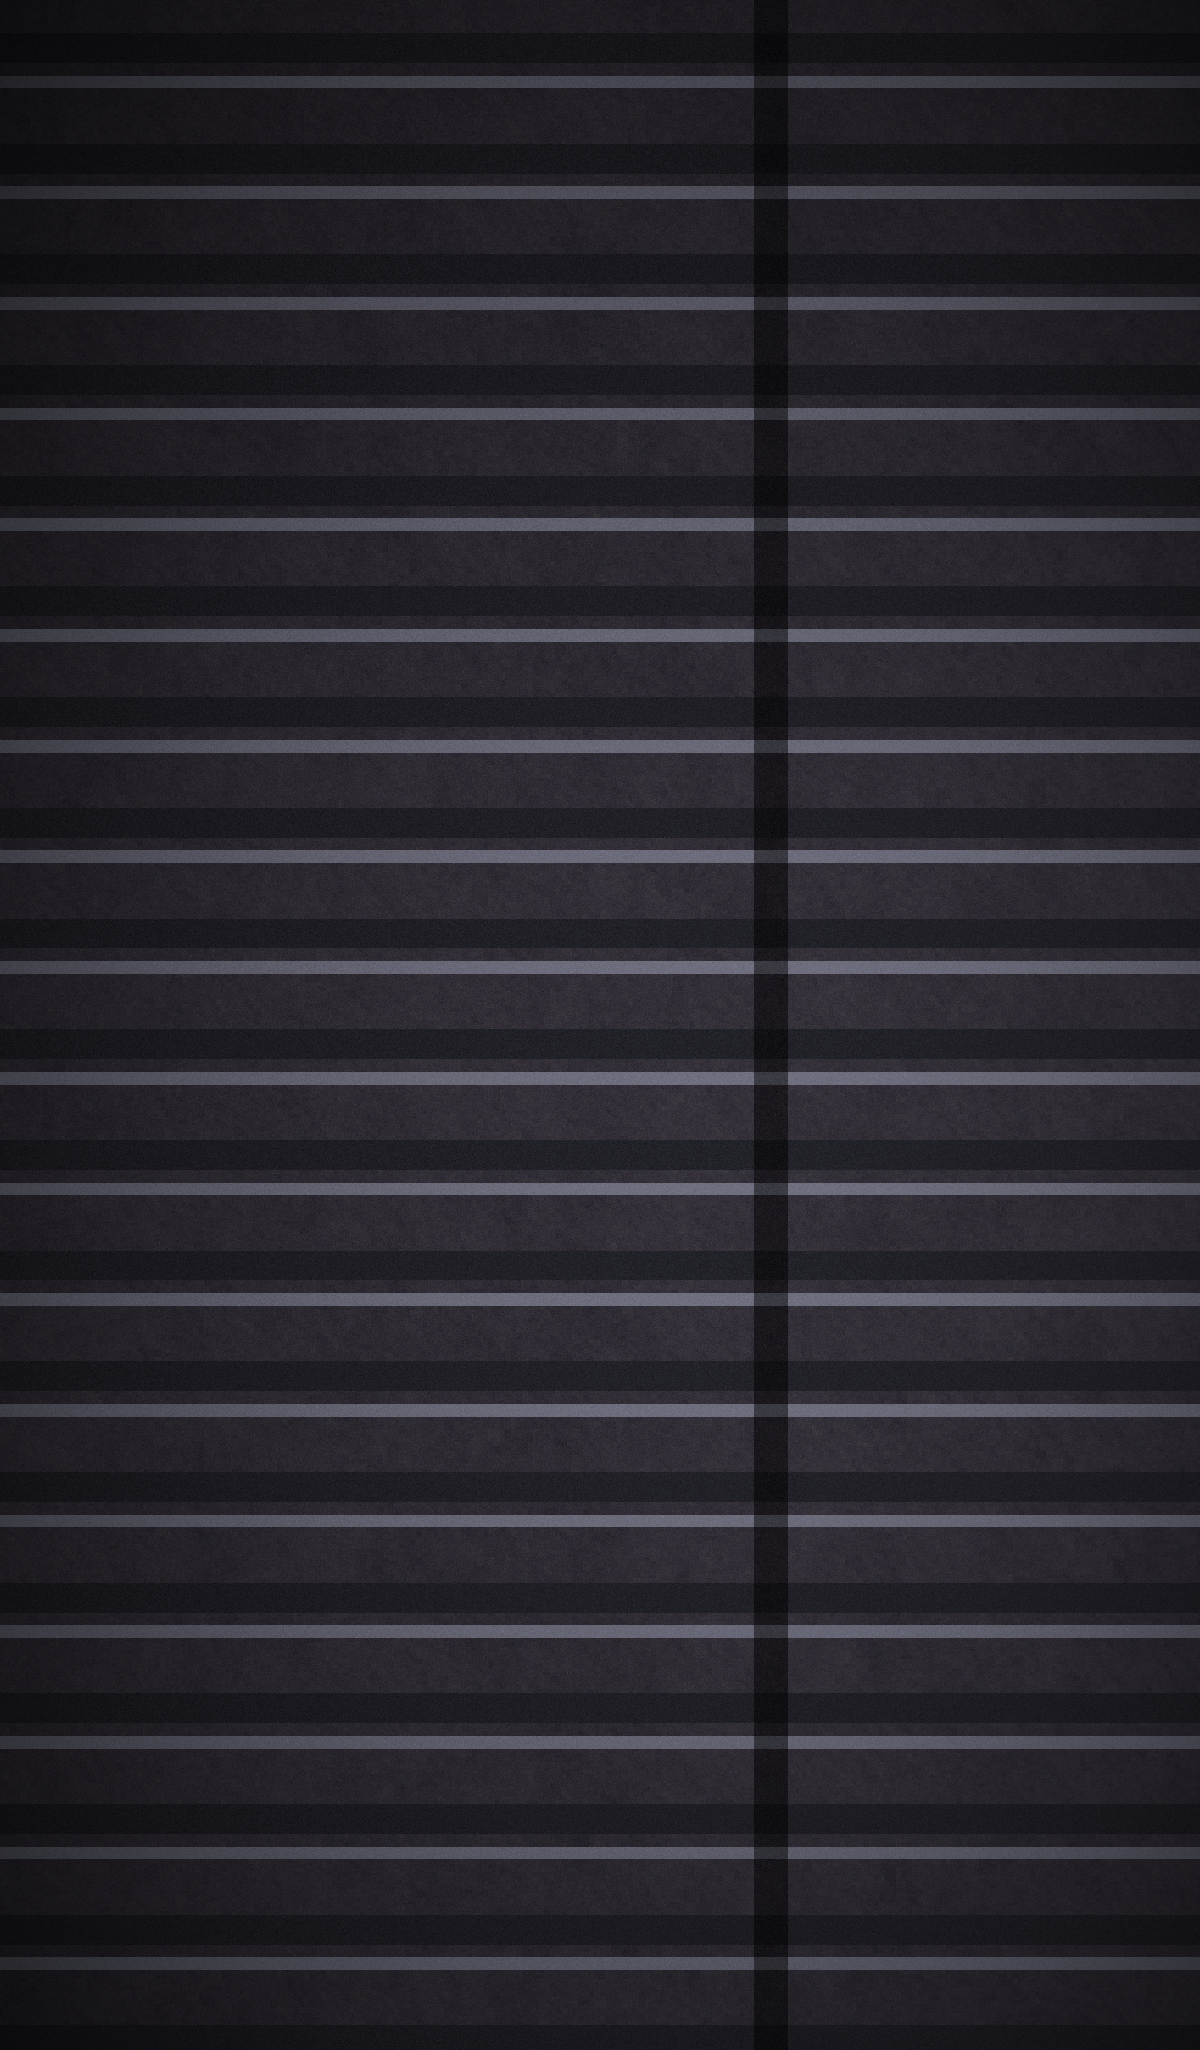
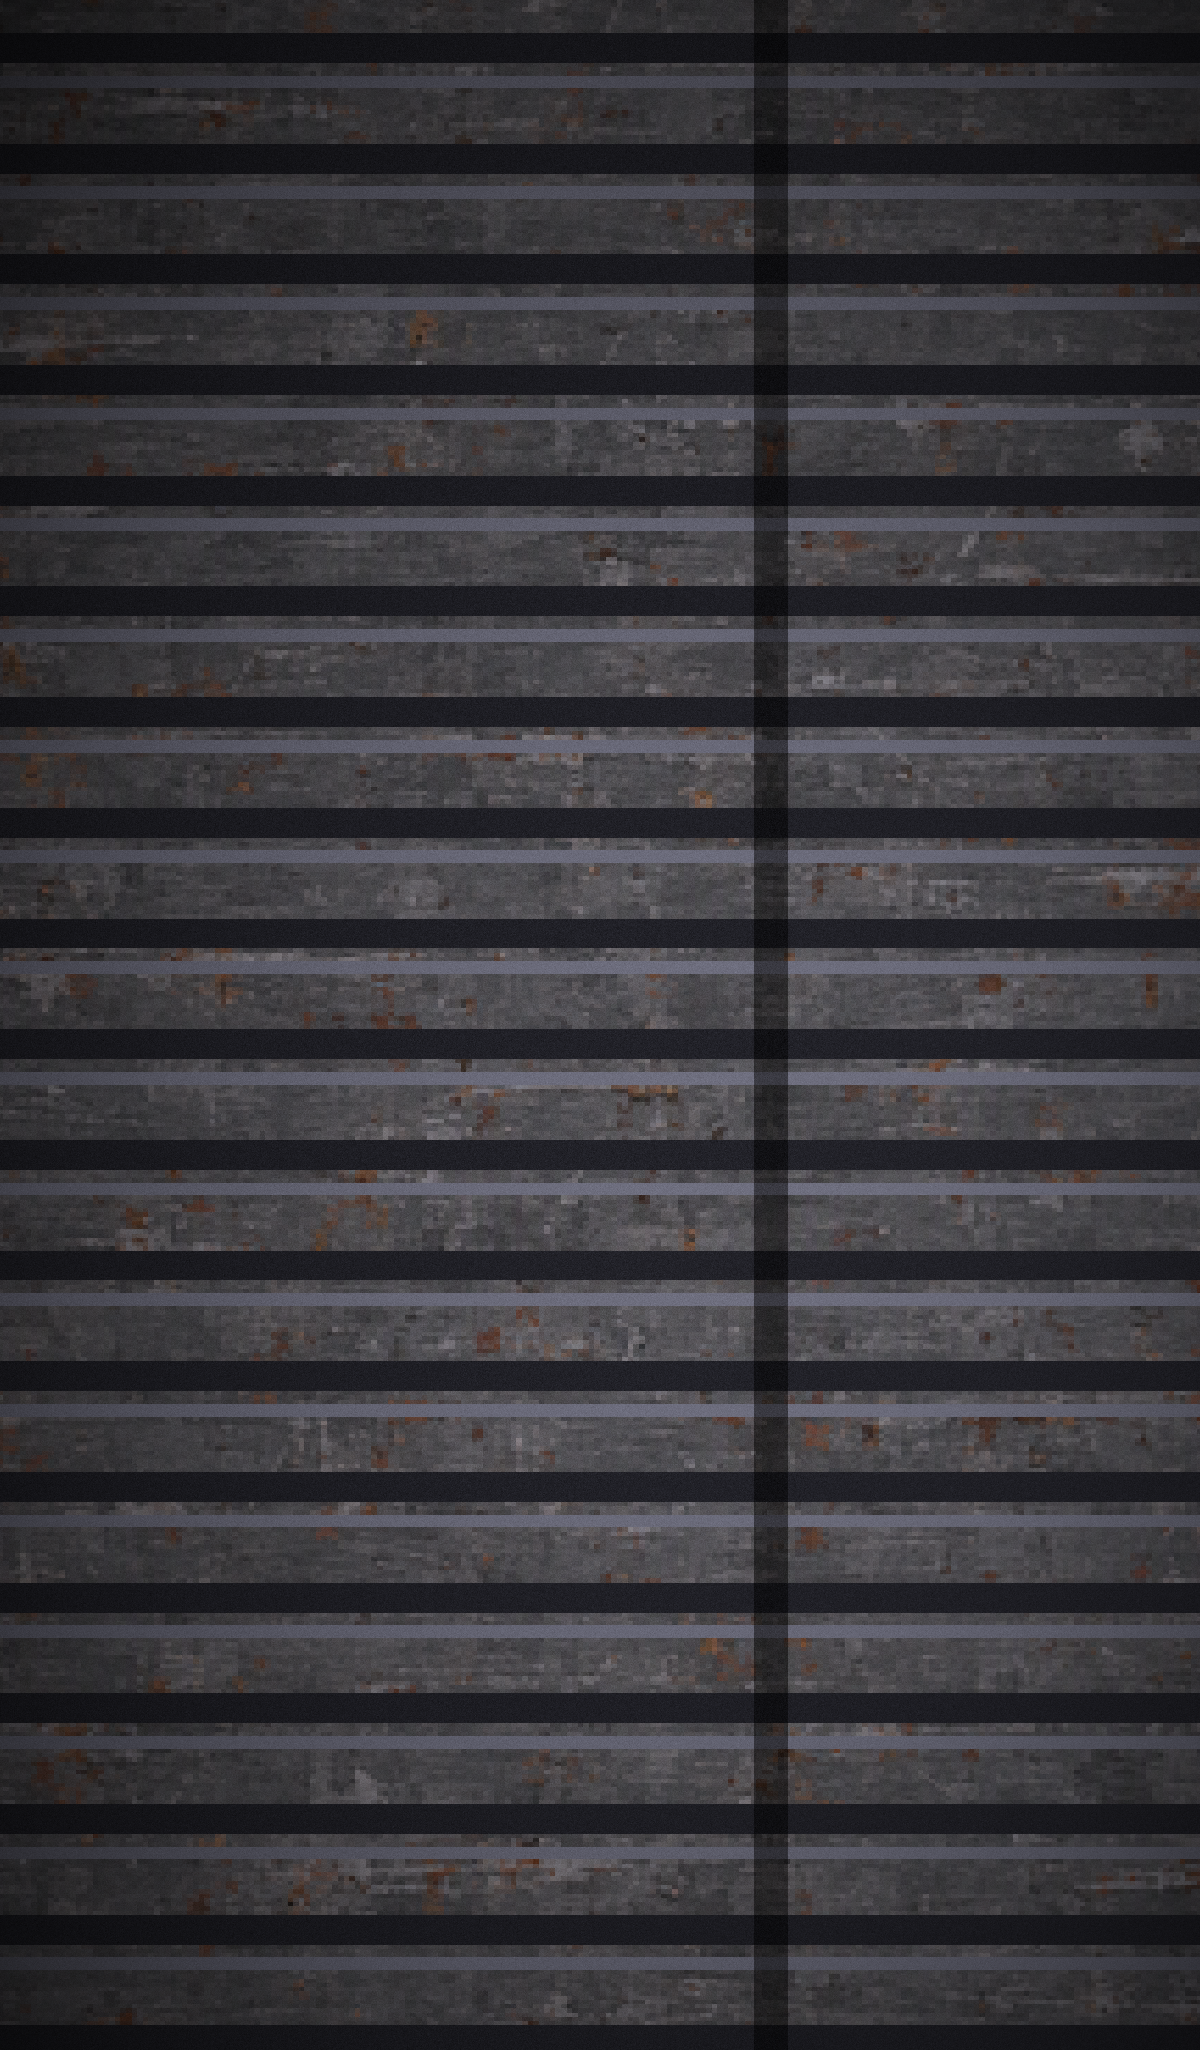
办公室换手绘绘本风贴图：AI 只出纹理，几何仍由程序算
绿子给了一天 60 积分的预算让把办公室搞好。路线来自上一轮实验的结论 ——
**画面结构必须由程序说了算，AI 只负责纹理**：整图图生图确实能换风格（地面线
误差 0.9%、桌子顶边 3%），但墙上的画框、门洞、显示器会错位（底图边缘只有
62.7% 能在结果图 ±2px 内找到对应）—— 我们的约定是门片必须和门洞严丝合缝、
门口立绘按门心对齐，门洞偏 3% 立绘就站偏了。

- tools/handpainted/（新）：5 张 1024×1024 手绘贴图 wall / floor / paper /
  metal / concrete。prompt 要点：seamless tileable（贴图会被 mod 平铺）、
  flat top-down orthographic、even uniform lighting（明暗交给渲染器的光照算）、
  统一风格词（watercolor + gouache / storybook / desaturated）
- 地板做了棋盘对齐：格线原本不在贴图边界上（106/254/406/557/710/860/1009），
  平铺时格子节奏会错乱；裁 [106:1009]×[135:996]（正好 6×6 格，格数取偶数
  否则平铺后同色相邻）缩回 1024，格线正好落在 0 和 1022
- gen_placeholder_art.py：只改两处 —— TEX_DIR 指向 tools/handpainted、
  TEX_FILES 换成 .png。**tools/cc0/ 那套照片写实贴图保留没删**，
  想换回去把 TEX_DIR 指回 cc0 即可
- 重渲全景条（5120×1296，亮度 0.148）与门板贴图；Unity 强制重导入 + 接入素材
- docs/06-手绘贴图.md（新）：生成要求、两道后处理、怎么换回去；README 同步

验证：反投影 yaw 0/35/70 三个角度正常；Play 实机截图（1477×610）里斑驳墙面、
暖调棋盘地板、奶龙插画、门洞、DOOR/LIGHT 按钮、HUD 都在。

diff --git a/tools/gen_placeholder_art.py b/tools/gen_placeholder_art.py
@@ -14,7 +14,10 @@
 盒子求交，命中面的三维坐标决定取哪块贴图。透视、遮挡、光照全是算出来的 ——
 改尺寸、换贴图只要重跑一次，不用手调像素。
 
-贴图来自 ambientCG（CC0，可商用、无需署名），放在 tools/cc0/。
+贴图分两套，按需切换 `TEX_DIR` / `TEX_FILES`：
+- `tools/handpainted/`（**当前使用**）—— 手绘绘本风，由 AI 生成（水彩+水粉笔触），
+  几何不受影响，只换观感。生成与无缝处理见 `docs/06-手绘贴图.md`
+- `tools/cc0/` —— 照片写实风，来自 ambientCG（CC0，可商用、无需署名）
 
 运行：
     C:/Users/DELL/.workbuddy-ai/binaries/python/envs/default/Scripts/python.exe tools/gen_placeholder_art.py
@@ -28,7 +31,7 @@ from PIL import Image, ImageDraw, ImageFilter, ImageFont
 
 W, H = 1920, 1080
 ROOT = os.path.dirname(os.path.dirname(os.path.abspath(__file__)))
-TEX_DIR = os.path.join(ROOT, "tools", "cc0")
+TEX_DIR = os.path.join(ROOT, "tools", "handpainted")
 CHAR_DIR = os.path.join(ROOT, "Assets", "Art", "Characters")
 OUT = os.path.join(ROOT, "Assets", "Art", "Backgrounds")
 DOOR_OUT = os.path.join(ROOT, "Assets", "Art", "UI")
@@ -99,11 +102,11 @@ CORR_GAIN = 0.70               # 走廊整体再压一档 —— 办公室的灯
 POSTER_GAIN = 0.80             # 墙上的画别比墙还亮
 
 TEX_FILES = {
-    "floor": "floor_tiles.jpg",
-    "wall": "wall_plaster.jpg",
-    "concrete": "concrete.jpg",
-    "metal": "metal.jpg",
-    "paper": "paper.jpg",
+    "floor": "floor.png",
+    "wall": "wall.png",
+    "concrete": "concrete.png",
+    "metal": "metal.png",
+    "paper": "paper.png",
 }
 
 

diff --git a/docs/06-手绘贴图.md b/docs/06-手绘贴图.md
@@ -1,0 +1,84 @@
+# 手绘贴图（AI 出纹理，几何仍由程序控制）
+
+办公室的观感靠这 5 张贴图。它们由 AI 生成（水彩 + 水粉笔触的手绘绘本风），
+但**几何一个像素都没交给 AI** —— 房间、桌子、门洞、画框的位置还是
+`tools/gen_placeholder_art.py` 算出来的。换贴图只换观感，不动结构。
+
+> 为什么不让 AI 直接画整张画面：试过。图生图确实能把风格换过去，大结构也保得住
+> （地面线误差 0.9%、桌子顶边 3%），但**墙上的画框、门洞、显示器这些会错位**
+> （底图边缘只有 62.7% 能在结果图 ±2px 内找到对应）。我们的约定是「门片必须和
+> 门洞严丝合缝、门口立绘按门心对齐」，门洞偏 3% 立绘就站偏了 —— 所以画面结构
+> 必须由程序说了算，AI 只负责纹理。
+
+## 一、5 张贴图
+
+放 `tools/handpainted/`，都是 1024×1024：
+
+| 文件 | 用在哪 |
+|---|---|
+| `wall.png` | 房间墙面 |
+| `floor.png` | 地板（黑白棋盘砖） |
+| `concrete.png` | 门外走廊 |
+| `metal.png` | 卷帘门、风扇、音箱等金属件 |
+| `paper.png` | 后墙海报、儿童画 |
+
+`tools/cc0/` 那套照片写实贴图（ambientCG，CC0）**保留着没删**，想换回去把
+`gen_placeholder_art.py` 的 `TEX_DIR` / `TEX_FILES` 指回 `cc0` + `.jpg` 即可。
+
+## 二、生成要求（prompt 要点）
+
+贴图会被 `load_textures()` 缩到 512×512，再由 `texel()` 用 `mod(u, 1)` **自动平铺**，
+所以**必须能无缝重复**。prompt 里这几句是关键的：
+
+- `Seamless tileable texture, ... The pattern must repeat seamlessly edge to edge in every direction.`
+- `flat top-down orthographic view` —— 正交俯视，别有透视
+- `Even uniform lighting across the entire image, absolutely no shadows, no vignette, no gradient, no border`
+  —— **明暗必须交给渲染器的光照算**，贴图自己带明暗的话，贴到墙上会和光照打架
+- 风格词固定成一套（`hand-painted, watercolor and gouache, visible brush strokes,
+  storybook illustration style, desaturated muted palette`），5 张共用，风格才统一
+
+实测 AI 对 `seamless tileable` 的理解不错：墙面那张的平铺接缝只有内部的 1.0~1.3 倍
+（比值 1.0 就是完全看不出接缝）。
+
+## 三、两道后处理
+
+生成完不能直接用，有两个坑要处理：
+
+### 1. 棋盘格要对齐贴图边界
+
+`floor.png` 是黑白棋盘，如果格子没落在贴图边界上，平铺时格子节奏会错乱
+（相邻两块拼起来出现半个格子）。做法是**检测格线 → 裁出整数个格子 → 缩放回原尺寸**：
+
+- 用亮度剖面的**突变点**找格线位置（阈值取最大梯度的 50%，相邻的合并）
+- 从第一条格线裁到最后一条 → 正好是整数格
+- **格数必须是偶数** —— 奇数的话平铺后会出现两个同色格相邻
+- 实测：原图格线在 106/254/406/557/710/860/1009，裁 `[106:1009] × [135:996]`
+  （6×6 格）缩回 1024，格线就正好落在 0 和 1022 上了
+
+⚠ 别用自相关找周期 —— 棋盘的自相关周期是 **2 格**（黑白反相），不是 1 格，
+会算错一半。
+
+### 2. 接缝复检
+
+裁切/缩放之后要重新量一遍边缘差异，确认没引入新接缝。
+指标：`|右边缘列 − 左边缘列|` 和内部的相邻列差比一比，比值接近 1 就对了。
+
+> 地板这个比值会偏高（3~5 倍），**是正常的** —— 格线正好压在贴图边界上，
+> 边界两侧本来就是黑格和白格。看平铺预览图确认视觉连续即可。
+
+## 四、改完怎么重渲
+
+```bash
+PY=C:/Users/DELL/.workbuddy-ai/binaries/python/envs/default/Scripts/python.exe
+$PY tools/gen_placeholder_art.py     # 门板贴图 door_face_*.png + 门片
+$PY tools/render_pano.py             # 全景条 office_pano.png
+```
+
+然后回 Unity 跑一次「奶龙 → 5. 接入素材」（或 `AssetDatabase.ImportAsset(..., ForceUpdate)`），
+**必须强制重导入** —— 否则 Unity 还用着旧贴图渲出来的旧全景。
+
+## 五、素材来源
+
+这 5 张是 2026-10-16 用图像生成模型按上面的 prompt 出的，原始输出留在
+`.workbuddy-ai/style/tex/`（不进版本库）。要重新生成或加新贴图，照第二节的
+prompt 要点来，风格词保持一致。

diff --git a/README.md b/README.md
@@ -103,7 +103,11 @@ Usage 亮几格就是当前耗电等级，颜色由绿转黄转红 —— 关一
 被抓时是全屏的跳杀特写，断电后是奶龙捧腹大笑的那张在闪。
 门口立绘会**自动面朝玩家**（左门镜像，素材一律朝左画），换图后跑一次「奶龙 → 5. 接入素材」即可。
 
-**背景与声音还是占位素材**：程序生成的暗色房间背景、卷帘门片，加上环境底噪与操作音效。
+**办公室是程序渲的 3D 房间**：一条圆柱全景条（`Assets/Resources/office_pano.png`）
++ 相机绕着中轴真转，转头连续、有视差；门和四个敌人都是世界空间的 3D 物体、真实米数。
+墙面地板那几张贴图换成了 AI 生成的手绘绘本风（见 `docs/06-手绘贴图.md`）——
+**只换纹理，几何还是程序算的**。
+声音仍是占位素材：环境底噪与操作音效。
 断电音乐是合成的八音盒版托雷多进行曲（`tools/gen_power_out_music.py`）——
 原版用的采样有版权，这段是自己做的，曲谱本身是公有领域。
 素材来源与许可见 `docs/03-素材规格.md` 第五节。
@@ -116,6 +120,7 @@ Usage 亮几格就是当前耗电等级，颜色由绿转黄转红 —— 关一
 | `docs/02-开发工具.md` | MCP for Unity 的安装与排障 |
 | `docs/03-素材规格.md` | 美术 / 音频 / 视频要按什么规格交付 |
 | `docs/04-设计决策.md` | **设计定稿** —— 玩法、敌人、流程、跳杀的最终结论 |
+| `docs/06-手绘贴图.md` | 办公室贴图怎么生成的、怎么换（AI 出纹理，几何由程序算） |
 | `AGENTS.md` | 技术栈、目录规范、命名约定、架构模式（**开工前必读**） |
 
 ## 目录一览
